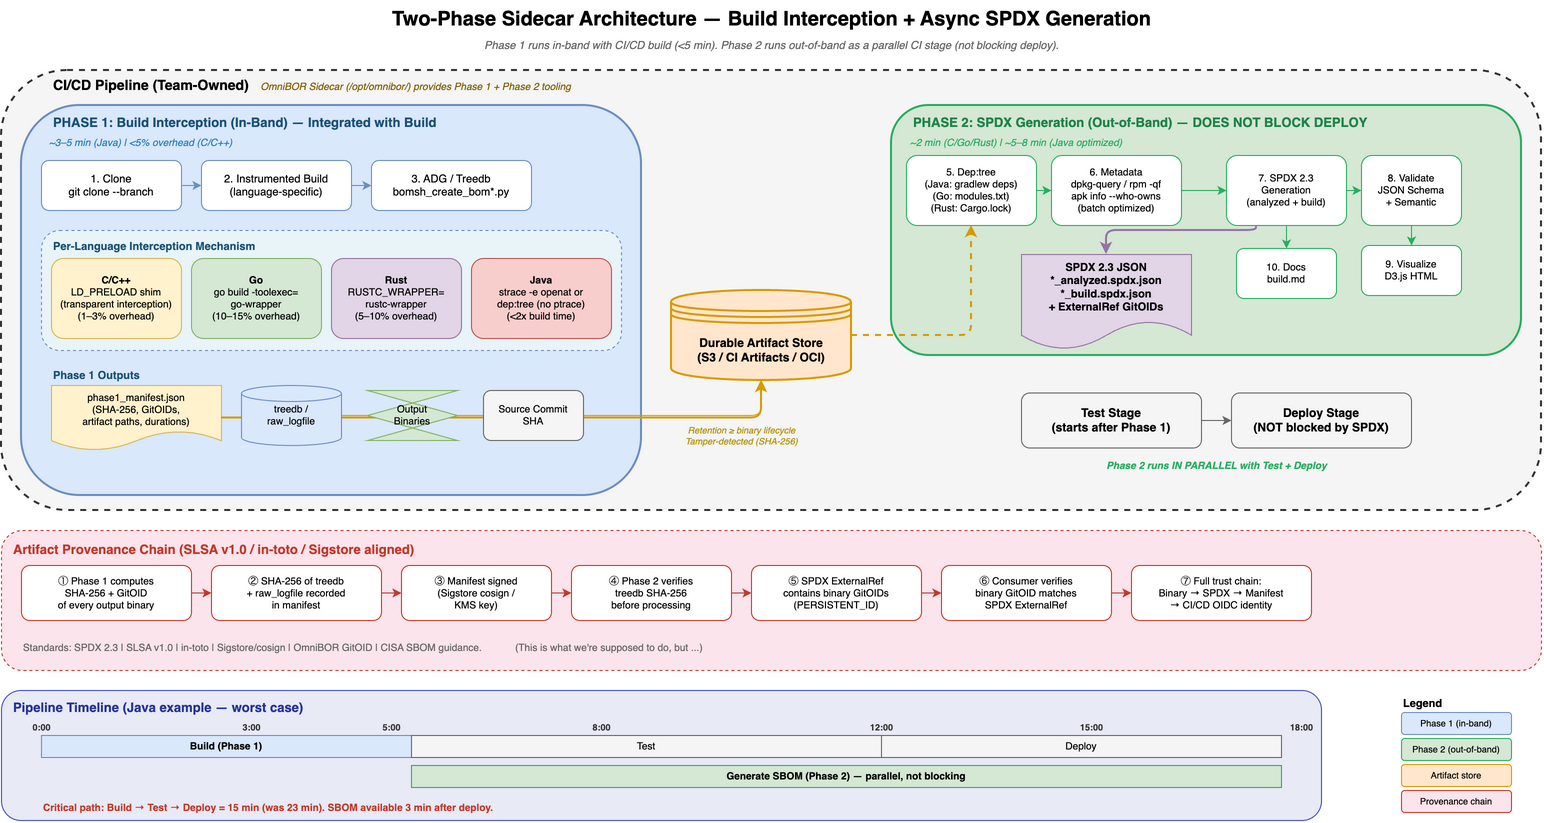
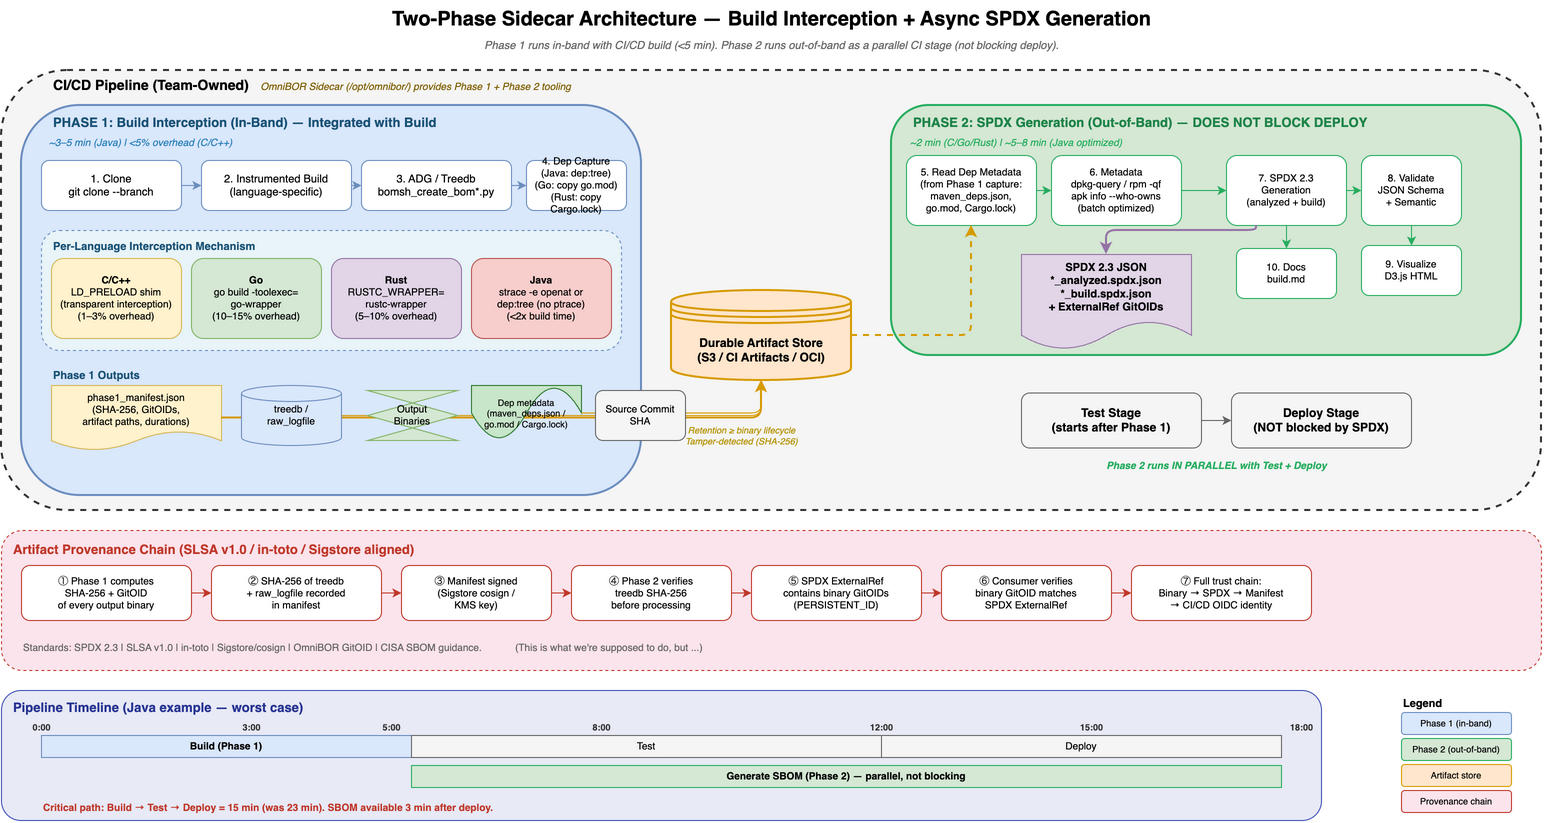
docs: correct Phase 1 architecture across all sidecar docs and diagrams

Changed region(s): [[0.2798, 0.4557, 0.4663, 0.5468], [0.2176, 0.1823, 0.4041, 0.2734], [0.5907, 0.1823, 0.6528, 0.2734]]

diff --git a/docs/sidecar/java/enterprise-sbom.md b/docs/sidecar/java/enterprise-sbom.md
@@ -4,20 +4,20 @@
 |---|---|
 | **Audience** | Enterprise Java build / platform teams |
 | **What this is** | A short technical overview of how build-based SBOM generation fits a Java CI/CD pipeline |
-| **The promise** | A complete, build-accurate SBOM with **near-zero impact** on your build |
+| **The promise** | A complete, build-accurate SBOM with **near-zero impact** on your build time |
 
 ---
 
 ## The one-sentence pitch
 
-Your build runs **exactly as it does today** — and you still get a complete,
-build-accurate SPDX SBOM, because the heavy work happens in Corona, not on your
-build machine.
+Your Java build (`mvn package` / `gradle build`) and your build scripts (`pom.xml` /
+`build.gradle`) stay **exactly as they are**. Phase 1 metadata capture is added to your
+existing CI/CD build step — after your build completes, it ships a few KB of metadata
+to Corona, where the SBOM is assembled off your build machine.
 
-Most SBOM tooling makes you change your build, add a scanning stage to your critical
-path, or hand over source. This does none of that. You add **one lightweight step**
-after your existing build; it ships a few KB of metadata to Corona; Corona assembles
-the SBOM.
+Most SBOM tooling makes you change your build configuration, add a scanning stage to
+your critical path, or hand over source. Phase 1 is added to your existing build step
+— no new pipeline steps, no build modifications.
 
 ---
 
@@ -49,7 +49,7 @@ actual SBOM assembly — runs in Corona, off your infrastructure.
 
 This is the part that matters to a build team:
 
-- **No build-script changes.** Your `pom.xml` / `build.gradle` and your build command stay byte-for-byte the same.
+- **Nothing is modified — only an addition.** Your `pom.xml` / `build.gradle`, your `mvn` / `gradle` invocation, and your pipeline structure stay byte-for-byte the same. Phase 1 metadata capture is added to your existing CI/CD build step, after the build completes.
 - **No kernel tracing, no privileged runners.** No `ptrace`, no `SYS_PTRACE`, no `--privileged` container, no custom build agents.
 - **Off the critical path.** Phase 1 takes **seconds**; Phase 2 SBOM generation happens later, in Corona, and never blocks Test or Deploy.
 - **Tiny footprint.** What leaves your machine is a few KB of metadata — not source, not JARs, not binaries, not build logs.
@@ -60,7 +60,7 @@ This is the part that matters to a build team:
 
 Maven and Gradle account for roughly **88% of Java builds**, and both are first-class:
 Phase 1 records the resolved dependency graph with `mvn dependency:tree` or
-`gradlew dependencies`, auto-detected, with no change to how you build.
+`gradlew dependencies`, auto-detected, with no changes to your build scripts or build invocations.
 
 The approach is **not limited to them**. Phase 1 works from what your build
 *produces* — the compiled classes and the JARs on your classpath — not from your build
@@ -72,13 +72,13 @@ the same model covers **all Java build tooling**, including Ant/Ivy, Bazel, and
 
 ## What your team actually adds to CI/CD
 
-One step, after your existing build stage. That's the whole change.
+Phase 1 metadata capture, added to your existing build step. That's the whole change.
 
 <a href="https://github.com/tedg-dev/omnibor-analysis/blob/main/docs/sidecar/java/java-sbom-cicd-integration.png"><img src="https://raw.githubusercontent.com/tedg-dev/omnibor-analysis/main/docs/sidecar/java/java-sbom-cicd-integration.png" width="760" alt="Java CI/CD integration — one added step — click to enlarge"></a>
 
 *Click to enlarge. Source: [java-sbom-cicd-integration.drawio](https://github.com/tedg-dev/omnibor-analysis/blob/main/docs/sidecar/java/java-sbom-cicd-integration.drawio)*
 
-**GitHub Actions** — add one step after your build (names below are illustrative):
+**GitHub Actions** — Phase 1 added to your build step (names are illustrative):
 
 ```yaml
 # .github/workflows/ci.yml — your existing pipeline
@@ -92,28 +92,27 @@ jobs:
           distribution: temurin
           java-version: "17"
 
-      - name: Build                        # your existing build — UNCHANGED
-        run: mvn -B package -DskipTests
+      - name: Build
+        run: |
+          mvn -B package -DskipTests
 
-      # ---------- the only thing you add ----------
-      - name: Build-based SBOM (Phase 1)
-        uses: your-org/omnibor-java-sidecar@v1
-        with:
-          build-tool: maven                # or: gradle
-          modules: "-pl cli -am"           # optional, for multi-module builds
-          corona-bucket: corona-sbom-intake
-          product: my-service
+          # --- Phase 1: build-based SBOM metadata capture (the only addition) ---
+          docker run --rm \
+            -v "${{ github.workspace }}:/src" -w /src \
+            ghcr.io/your-org/omnibor-java-sidecar:1 phase1 \
+            --build-tool maven \
+            --corona-bucket corona-sbom-intake \
+            --product my-service
 ```
 
-**Jenkins** — add one stage after your build stage:
+**Jenkins** — Phase 1 added to your Build stage:
 
 ```groovy
-stage('Build') {                           // your existing stage — UNCHANGED
-  steps { sh 'mvn -B package -DskipTests' }
-}
-
-stage('Build-based SBOM (Phase 1)') {      // the only thing you add
+stage('Build') {
   steps {
+    sh 'mvn -B package -DskipTests'
+
+    // Phase 1: build-based SBOM metadata capture (the only addition)
     sh '''
       docker run --rm -v "$WORKSPACE:/src" -w /src \
         ghcr.io/your-org/omnibor-java-sidecar:1 phase1 \
@@ -125,9 +124,9 @@ stage('Build-based SBOM (Phase 1)') {      // the only thing you add
 }
 ```
 
-The added step runs the published Java sidecar against the workspace your build just
-produced: it reads the dependency tree + `treedb`, writes the signed manifest, and
-uploads to Corona. No SBOM is assembled on your runner.
+Phase 1 runs after your build completes, within the same build step. It reads the
+dependency tree + `treedb`, writes the signed manifest, and uploads to Corona. No
+SBOM is assembled on your runner. No new pipeline steps are created.
 
 ---
 

diff --git a/docs/sidecar/phase-isolation-gap-analysis.md b/docs/sidecar/phase-isolation-gap-analysis.md
@@ -118,14 +118,28 @@ destroyed when Phase 1 exits.
 
 ## 4. Foundational Constraint: Zero Modification to the Host Build
 
-The sidecar requires **ZERO modifications** to the customer's:
+> **Scope**: This section describes the **enterprise K8s sidecar**
+> deployment model (§4.2), where a platform team deploys the sidecar
+> transparently via Kubernetes webhooks, eBPF DaemonSets, or
+> pre-configured container images. The build team changes nothing.
+>
+> An alternative **CI/CD integration** model exists (see
+> `java/enterprise-sbom.md`) in which Phase 1 metadata capture is
+> explicitly added to the existing CI/CD build step. In that model,
+> the CI/CD pipeline config **is** modified — but only to append a
+> Phase 1 `docker run` after the build command. Build scripts
+> (`pom.xml`, `build.gradle`, `Makefile`) and build invocations
+> (`mvn`, `gradle`, `make`) remain unchanged in both models.
+
+The enterprise K8s sidecar requires **ZERO modifications** to the
+customer's:
 
 - **Build system** — no `pom.xml` changes, no `build.gradle` changes,
   no Makefile changes
 - **Build commands** — no wrapping `make` with `omnibor-build -- make`,
   no adding flags
 - **CI/CD pipeline config** — no changing the pipeline YAML, Jenkinsfile,
-  or `.gitlab-ci.yml`
+  or `.gitlab-ci.yml` (K8s sidecar model only — see note above)
 
 The sidecar is purely **additive infrastructure** — a container,
 DaemonSet, or system-level service added by the DevOps/platform team.

diff --git a/docs/sidecar/rust/sidecar-design.md b/docs/sidecar/rust/sidecar-design.md
@@ -64,7 +64,14 @@ runners.py main()
 - **Output**: raw logfile at `/tmp/bomsh_hook_raw_logfile.sha1`
 - **ADG**: `bomsh_create_bom.py -r <raw_logfile> -b <bom_dir>`
 
-### 2.2 Sidecar: `RustcWrapperStrategy`
+### 2.2 Standalone-without-ptrace: `RustcWrapperStrategy`
+
+> **Not a sidecar mechanism.** `RUSTC_WRAPPER` modifies the build
+> invocation, which the sidecar model forbids (see `../infrastructure.md`
+> §2.1 footnote). This is a valid **standalone-without-ptrace** option.
+> The truly-sidecar Rust mechanism is transparent kernel/linker
+> interception (`LD_PRELOAD` / eBPF), same as C/C++ — see
+> `../c-cpp/sidecar-design.md` §2.
 
 - **Mechanism**: `RUSTC_WRAPPER=/opt/bomsh/bin/bomsh_hook.sh` environment variable
 - **Capability needed**: None (`SYS_PTRACE` not required)
@@ -95,8 +102,8 @@ Add `_select_rust_strategy()` in `lang_runners.py`:
 def _select_rust_strategy(repo_name, repo_cfg, paths_cfg, mode):
     """Select interception strategy for Rust builds.
 
-    In sidecar mode, uses RUSTC_WRAPPER that avoids
-    ptrace entirely.
+    In standalone-without-ptrace mode, uses RUSTC_WRAPPER
+    that avoids ptrace entirely.
 
     In standalone mode, returns None (legacy bomtrace2 path).
     """

diff --git a/docs/sidecar/go/sidecar-design.md b/docs/sidecar/go/sidecar-design.md
@@ -63,7 +63,14 @@ runners.py main()
 - **Output**: raw logfile at `/tmp/bomsh_hook_raw_logfile.sha1`
 - **ADG**: `bomsh_create_bom.py -r <raw_logfile> -b <bom_dir>`
 
-### 2.2 Sidecar: `GoToolexecStrategy`
+### 2.2 Standalone-without-ptrace: `GoToolexecStrategy`
+
+> **Not a sidecar mechanism.** `-toolexec` modifies the build
+> invocation, which the sidecar model forbids (see `../infrastructure.md`
+> §2.1 footnote). This is a valid **standalone-without-ptrace** option.
+> The truly-sidecar Go mechanism is transparent kernel/linker
+> interception (`LD_PRELOAD` / eBPF), same as C/C++ — see
+> `../c-cpp/sidecar-design.md` §2.
 
 - **Mechanism**: `-toolexec=/opt/bomsh/bin/bomsh_hook.sh` injected into `go build`
 - **Capability needed**: None (`SYS_PTRACE` not required)
@@ -97,8 +104,8 @@ Add `_select_go_strategy()` in `lang_runners.py`:
 def _select_go_strategy(repo_name, repo_cfg, paths_cfg, mode):
     """Select interception strategy for Go builds.
 
-    In sidecar mode, uses -toolexec wrapper that avoids
-    ptrace entirely.
+    In standalone-without-ptrace mode, uses -toolexec wrapper
+    that avoids ptrace entirely.
 
     In standalone mode, returns None (legacy bomtrace2 path).
     """

diff --git a/docs/sidecar/java/README.md b/docs/sidecar/java/README.md
@@ -24,7 +24,9 @@ All Java-specific sidecar and phase isolation documentation.
 ## Key Facts
 
 - Java sidecar does **NOT** use strace (standalone mode only)
-- Build runs **unmodified** — no strace prefix, no `SYS_PTRACE`
+- Your Java build (`mvn package` / `gradle build`) and build scripts (`pom.xml` / `build.gradle`) are **unchanged**
+- Phase 1 metadata capture is **added to your existing CI/CD build step** — no new pipeline steps, no build modifications
+- No strace, no `SYS_PTRACE`, no privileged container
 - All metadata capture is **post-build**:
 
   1. `bomsh_create_bom_java.py` scans `.class` `SourceFile` attributes
